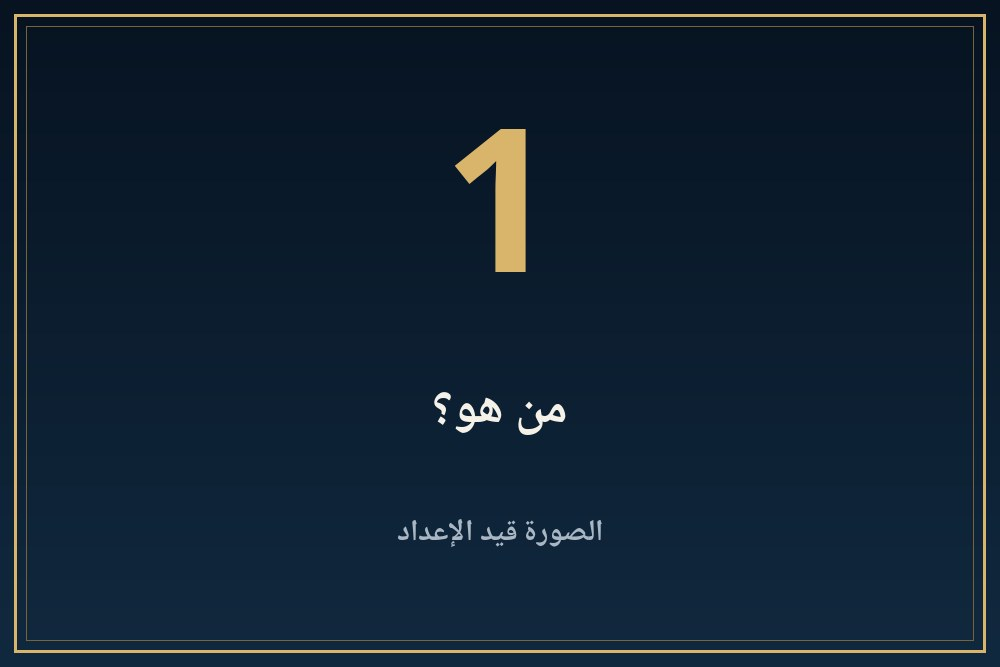
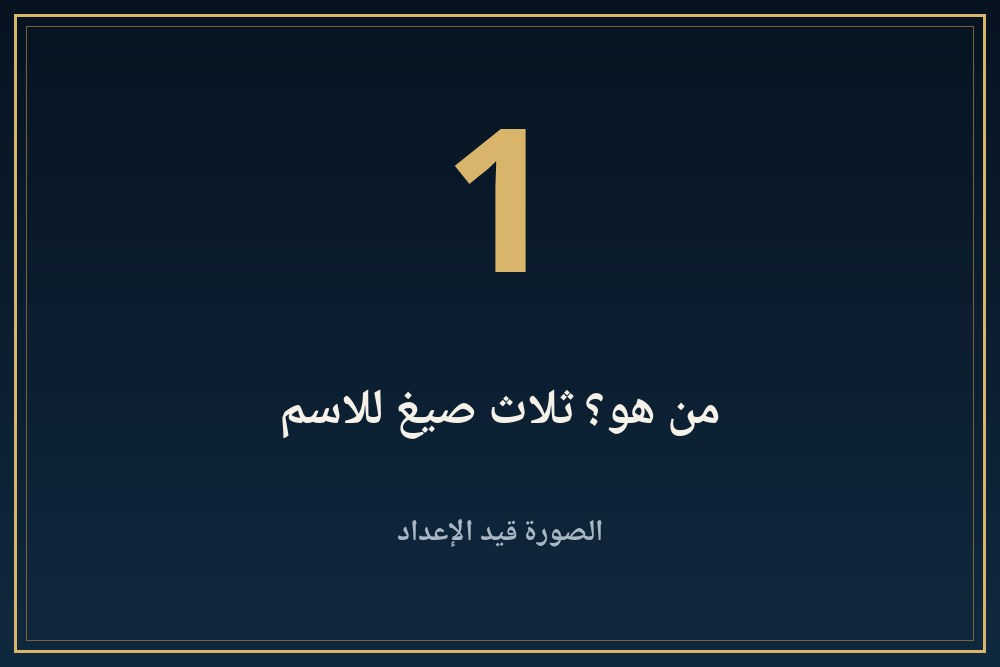
King 034: rebuilt from updated content (placeholders, audio pending)

Changed region(s): [[0.279, 0.5697, 0.744, 0.6597]]

diff --git a/kings/034-mrn-ra-alawl/index.html b/kings/034-mrn-ra-alawl/index.html
@@ -324,7 +324,7 @@ html[dir=ltr] #panav.open,#pash[dir=ltr] #panav.open{border-right:0!important;bo
 <div class="row"><span class="bdg v">موثّق</span><span>مذكور في مصدر مرقّم يمكن فتحه من قسم المراجع.</span></div>
 <div class="row"><span class="bdg d">محل خلاف</span><span>الصفحة نفسها تذكر أن الباحثين أو المصادر مختلفون فيه.</span></div>
 <div class="row"><span class="bdg u">لم يُتحقق منه</span><span>الصفحة تذكر أنه من مصدر واحد ولم يُتحقق منه في مصدر ثانٍ.</span></div></div>
-<div class="band" aria-hidden="true"></div><details class="acc k1" id="s1"><summary><img class="bnr" src="banners/b01.jpg?v=1" alt="" width="1000" height="667"><span class="n">1</span><span class="t">من هو؟</span><span class="ch"></span></summary><div class="body"><button class="lbtn" type="button" disabled aria-disabled="true" style="opacity:.55;cursor:default"><svg viewBox="0 0 24 24" fill="currentColor" aria-hidden="true"><path d="M7 4.5v15a1 1 0 001.5.86l12-7.5a1 1 0 000-1.72l-12-7.5A1 1 0 007 4.5z"/></svg><span>التعليق الصوتي قريبًا</span></button><p><span class="bdg v">موثّق</span> يقول سليم حسن (ج1 ص283-286) إن مرن رع عيّن وني «أميرا ومديرا للجنوب» من أسوان إلى إطفيح، «وعلى أن مثل هذه الوظيفة لم تُمنح لأحد من قبل».<sup><a href="#r1">[1]</a></sup></p></div></details><details class="acc k2" id="s2"><summary><img class="bnr" src="banners/b02.jpg?v=1" alt="" loading="lazy" width="1000" height="667"><span class="n">2</span><span class="t">بعثة حتنوب</span><span class="ch"></span></summary><div class="body"><button class="lbtn" type="button" disabled aria-disabled="true" style="opacity:.55;cursor:default"><svg viewBox="0 0 24 24" fill="currentColor" aria-hidden="true"><path d="M7 4.5v15a1 1 0 001.5.86l12-7.5a1 1 0 000-1.72l-12-7.5A1 1 0 007 4.5z"/></svg><span>التعليق الصوتي قريبًا</span></button><p><span class="bdg v">موثّق</span> يذكر سليم حسن (ص284) بعثة حتنوب لمائدة المرمر.<sup><a href="#r1">[1]</a></sup></p></div></details><details class="acc k3" id="s3"><summary><img class="bnr" src="banners/b03.jpg?v=1" alt="" loading="lazy" width="1000" height="667"><span class="n">3</span><span class="t">زيارة الشلال الأول</span><span class="ch"></span></summary><div class="body"><button class="lbtn" type="button" disabled aria-disabled="true" style="opacity:.55;cursor:default"><svg viewBox="0 0 24 24" fill="currentColor" aria-hidden="true"><path d="M7 4.5v15a1 1 0 001.5.86l12-7.5a1 1 0 000-1.72l-12-7.5A1 1 0 007 4.5z"/></svg><span>التعليق الصوتي قريبًا</span></button><p><span class="bdg v">موثّق</span> يذكر سليم حسن (ص285) زيارة الملك للشلال الأول في سنة 5 ونقشين مع خنوم وأمراء النوبة.<sup><a href="#r1">[1]</a></sup></p></div></details><details class="acc k4" id="s4"><summary><img class="bnr" src="banners/b04.jpg?v=1" alt="" loading="lazy" width="1000" height="667"><span class="n">4</span><span class="t">القنوات الخمس</span><span class="ch"></span></summary><div class="body"><button class="lbtn" type="button" disabled aria-disabled="true" style="opacity:.55;cursor:default"><svg viewBox="0 0 24 24" fill="currentColor" aria-hidden="true"><path d="M7 4.5v15a1 1 0 001.5.86l12-7.5a1 1 0 000-1.72l-12-7.5A1 1 0 007 4.5z"/></svg><span>التعليق الصوتي قريبًا</span></button><p><span class="bdg v">موثّق</span> يقول سليم حسن (ص284-285) إن حفر القنوات الخمس عند الشلال «من أكبر مفاخر عهده».<sup><a href="#r1">[1]</a></sup></p></div></details><details class="acc k1" id="s5"><summary><img class="bnr" src="banners/b05.jpg?v=1" alt="" loading="lazy" width="1000" height="667"><span class="n">5</span><span class="t">رحلات حرخوف</span><span class="ch"></span></summary><div class="body"><button class="lbtn" type="button" disabled aria-disabled="true" style="opacity:.55;cursor:default"><svg viewBox="0 0 24 24" fill="currentColor" aria-hidden="true"><path d="M7 4.5v15a1 1 0 001.5.86l12-7.5a1 1 0 000-1.72l-12-7.5A1 1 0 007 4.5z"/></svg><span>التعليق الصوتي قريبًا</span></button><p><span class="bdg v">موثّق</span> يذكر سليم حسن (ص286) ثلاث رحلات لحرخوف إلى إيام، منها قافلة من 300 حمار بالبخور والأبنوس والعاج.<sup><a href="#r1">[1]</a></sup></p></div></details><details class="acc k2" id="s6"><summary><img class="bnr" src="banners/b06.jpg?v=1" alt="" loading="lazy" width="1000" height="667"><span class="n">6</span><span class="t">ما لا نعرفه</span><span class="ch"></span></summary><div class="body"><button class="lbtn" type="button" disabled aria-disabled="true" style="opacity:.55;cursor:default"><svg viewBox="0 0 24 24" fill="currentColor" aria-hidden="true"><path d="M7 4.5v15a1 1 0 001.5.86l12-7.5a1 1 0 000-1.72l-12-7.5A1 1 0 007 4.5z"/></svg><span>التعليق الصوتي قريبًا</span></button><p><span class="bdg u">لم يُتحقق منه</span> لم نقرأ في مصادرنا تفاصيل أخرى بنص مضمون، وسنضيف ما نقرؤه من مصادر موثوقة.</p></div></details><details class="acc k4" id="refs"><summary><img class="bnr" src="banners/b07.jpg?v=1" alt="" loading="lazy" width="1000" height="667"><span class="n">7</span><span class="t">المراجع</span><span class="ch"></span></summary><div class="body"><button class="lbtn" type="button" disabled aria-disabled="true" style="opacity:.55;cursor:default"><svg viewBox="0 0 24 24" fill="currentColor" aria-hidden="true"><path d="M7 4.5v15a1 1 0 001.5.86l12-7.5a1 1 0 000-1.72l-12-7.5A1 1 0 007 4.5z"/></svg><span>التعليق الصوتي قريبًا</span></button><p><b>مصادر فتحتُ صفحاتها وقرأتها:</b></p><ol><li id="r1" dir="auto">سليم حسن، موسوعة مصر القديمة، ج1، الفصل 15: <a dir="ltr" style="display:inline-block;overflow-wrap:anywhere" href="https://archive.org/details/20201104_20201104_1559" rel="noopener" target="_blank">archive.org/details/20201104_20201104_1559</a></li></ol><div class="flag"><b>تنبيه:</b> عدد المصادر المصرية المفتوحة لهذه الصفحة واحد فقط. لا نضيف تفاصيل لم تثبت في مصدر فتحناه وقرأنا نصه، وحيث يختلف المصدران ننسب كل رأي لصاحبه.</div></div></details></article><aside class="abt" aria-label="عن هذه الصفحة"><h3>عن هذه الصفحة</h3><ul><li><b>المحتوى</b><span>جزء من موسوعة بر عنخ التعليمية. التواريخ والتفسيرات وفق المراجع المتاحة، وقد تختلف التفاصيل بين الدراسات.</span></li><li><b>الصور</b><span>صور هذه الصفحة أماكن حجز مؤقتة إلى أن تُضاف الصور الفنية.</span></li><li><b>الصوت</b><span>التعليق الصوتي قيد الإعداد.</span></li></ul></aside><a class="back" href="/kings/">← تصفح المزيد</a><a class="back" href="/">العودة إلى الرئيسية</a><dialog id="lb"><img alt=""><p></p><button type="button">إغلاق</button></dialog>
+<div class="band" aria-hidden="true"></div><details class="acc k1" id="s1"><summary><img class="bnr" src="banners/b01.jpg?v=1" alt="" width="1000" height="667"><span class="n">1</span><span class="t">من هو؟ ثلاث صيغ للاسم</span><span class="ch"></span></summary><div class="body"><button class="lbtn" type="button" disabled aria-disabled="true" style="opacity:.55;cursor:default"><svg viewBox="0 0 24 24" fill="currentColor" aria-hidden="true"><path d="M7 4.5v15a1 1 0 001.5.86l12-7.5a1 1 0 000-1.72l-12-7.5A1 1 0 007 4.5z"/></svg><span>التعليق الصوتي قريبًا</span></button><p><span class="bdg d">محل خلاف</span> يسميه صالح (ص214) «مرن رع»، ويسميه نور الدين (ص715) «نمتي م ساف الأول» وفي قائمته «مسرحن رع» بنص مشوه، ويكتب كتاب الميت (ص35-36) «Antiemsaf / Merenre» واسمه الحوري «عنخ خعو» أي «الظهور الحي». فنذكر الصيغ الثلاث دون ترجيح.<sup><a href="#r2">[2]</a><a href="#r3">[3]</a><a href="#r4">[4]</a></sup></p></div></details><details class="acc k2" id="s2"><summary><img class="bnr" src="banners/b02.jpg?v=1" alt="" loading="lazy" width="1000" height="667"><span class="n">2</span><span class="t">مدة الحكم</span><span class="ch"></span></summary><div class="body"><button class="lbtn" type="button" disabled aria-disabled="true" style="opacity:.55;cursor:default"><svg viewBox="0 0 24 24" fill="currentColor" aria-hidden="true"><path d="M7 4.5v15a1 1 0 001.5.86l12-7.5a1 1 0 000-1.72l-12-7.5A1 1 0 007 4.5z"/></svg><span>التعليق الصوتي قريبًا</span></button><p><span class="bdg d">محل خلاف</span> يقول كتاب الميت (ص35-36) إن مانيتون ينسب إليه سبع سنين وبردية تورين أكثر من أربعين، والمؤكد إحصاء خامس يدل على سنة عشر أو إحدى عشرة. ويقول نور الدين (ص715) «سبعة أعوام» بنص مشوه. فالخلاف قائم.<sup><a href="#r3">[3]</a><a href="#r4">[4]</a></sup></p></div></details><details class="acc k3" id="s3"><summary><img class="bnr" src="banners/b03.jpg?v=1" alt="" loading="lazy" width="1000" height="667"><span class="n">3</span><span class="t">شراكة في الحكم؟</span><span class="ch"></span></summary><div class="body"><button class="lbtn" type="button" disabled aria-disabled="true" style="opacity:.55;cursor:default"><svg viewBox="0 0 24 24" fill="currentColor" aria-hidden="true"><path d="M7 4.5v15a1 1 0 001.5.86l12-7.5a1 1 0 000-1.72l-12-7.5A1 1 0 007 4.5z"/></svg><span>التعليق الصوتي قريبًا</span></button><p><span class="bdg u">لم يُتحقق منه</span> يقول كتاب الميت (ص36) إن قطعة ذهبية تجمع خرطوشه وخرطوش بيبي الأول «قد تدل» على فترة حكم مشترك، وإن الآثار باسمه كثيرة نسبيا.<sup><a href="#r4">[4]</a></sup></p></div></details><details class="acc k4" id="s4"><summary><img class="bnr" src="banners/b04.jpg?v=1" alt="" loading="lazy" width="1000" height="667"><span class="n">4</span><span class="t">معبد ناقص ومومياء</span><span class="ch"></span></summary><div class="body"><button class="lbtn" type="button" disabled aria-disabled="true" style="opacity:.55;cursor:default"><svg viewBox="0 0 24 24" fill="currentColor" aria-hidden="true"><path d="M7 4.5v15a1 1 0 001.5.86l12-7.5a1 1 0 000-1.72l-12-7.5A1 1 0 007 4.5z"/></svg><span>التعليق الصوتي قريبًا</span></button><p><span class="bdg d">محل خلاف</span> يقول كتاب الميت (ص36) إن الحفر الجزئي لمعبده يكشف أنه بقي ناقصا، وإن ماسبيرو وجد في هرمه متون الأهرام عام 1880 ووجد مومياء الملك، وقد تدهورت حتى صار لا يُعرف عمره. ويقول نور الدين (ص514) إن ماسبيرو اكتشف المتون بين 1880 و1881 في أهرام أوناس وبيبي الأول ومرن رع وبيبي الثاني. وكتاب الميت يجعل أول اكتشافها في هرم مرن رع.<sup><a href="#r3">[3]</a><a href="#r4">[4]</a></sup></p></div></details><details class="acc k1" id="s5"><summary><img class="bnr" src="banners/b05.jpg?v=1" alt="" loading="lazy" width="1000" height="667"><span class="n">5</span><span class="t">وني أمير الجنوب</span><span class="ch"></span></summary><div class="body"><button class="lbtn" type="button" disabled aria-disabled="true" style="opacity:.55;cursor:default"><svg viewBox="0 0 24 24" fill="currentColor" aria-hidden="true"><path d="M7 4.5v15a1 1 0 001.5.86l12-7.5a1 1 0 000-1.72l-12-7.5A1 1 0 007 4.5z"/></svg><span>التعليق الصوتي قريبًا</span></button><p><span class="bdg v">موثّق</span> يقول سليم حسن (ص283) إن مرن رع عيّن وني «أميرا ومديرا للجنوب» من أسوان إلى إطفيح، ولم تُمنح هذه الوظيفة لأحد من قبل. ويقول (ص284-285) إن حفر القنوات الخمس عند الشلال من أكبر مفاخر عهده، وإنه زار الشلال الأول في سنة 5.<sup><a href="#r1">[1]</a></sup></p></div></details><details class="acc k2" id="s6"><summary><img class="bnr" src="banners/b06.jpg?v=1" alt="" loading="lazy" width="1000" height="667"><span class="n">6</span><span class="t">رحلات حرخوف</span><span class="ch"></span></summary><div class="body"><button class="lbtn" type="button" disabled aria-disabled="true" style="opacity:.55;cursor:default"><svg viewBox="0 0 24 24" fill="currentColor" aria-hidden="true"><path d="M7 4.5v15a1 1 0 001.5.86l12-7.5a1 1 0 000-1.72l-12-7.5A1 1 0 007 4.5z"/></svg><span>التعليق الصوتي قريبًا</span></button><p><span class="bdg d">محل خلاف</span> يقول صالح (ص220) إن حرخوف قام بأربع رحلات إلى الجنوب في عهدي مرن رع وبيبي الثاني بطريقين، وبدأها مع أبيه إري، وبلغ منطقة إيام قرب الشلال الثاني. ويذكر سليم حسن (ص286) ثلاث رحلات منها قافلة من 300 حمار.<sup><a href="#r1">[1]</a><a href="#r2">[2]</a></sup></p></div></details><details class="acc k3" id="s7"><summary><img class="bnr" src="banners/b07.jpg?v=1" alt="" loading="lazy" width="1000" height="667"><span class="n">7</span><span class="t">ما لا نعرفه</span><span class="ch"></span></summary><div class="body"><button class="lbtn" type="button" disabled aria-disabled="true" style="opacity:.55;cursor:default"><svg viewBox="0 0 24 24" fill="currentColor" aria-hidden="true"><path d="M7 4.5v15a1 1 0 001.5.86l12-7.5a1 1 0 000-1.72l-12-7.5A1 1 0 007 4.5z"/></svg><span>التعليق الصوتي قريبًا</span></button><p><span class="bdg u">لم يُتحقق منه</span> لا نعرف مدة حكمه ولا هل حكم مع أبيه، ولا موضع المومياء الآن. ونعرض ما قرأناه دون ترجيح.</p></div></details><details class="acc k4" id="refs"><summary><img class="bnr" src="banners/b08.jpg?v=1" alt="" loading="lazy" width="1000" height="667"><span class="n">8</span><span class="t">المراجع</span><span class="ch"></span></summary><div class="body"><button class="lbtn" type="button" disabled aria-disabled="true" style="opacity:.55;cursor:default"><svg viewBox="0 0 24 24" fill="currentColor" aria-hidden="true"><path d="M7 4.5v15a1 1 0 001.5.86l12-7.5a1 1 0 000-1.72l-12-7.5A1 1 0 007 4.5z"/></svg><span>التعليق الصوتي قريبًا</span></button><p><b>مصادر فتحتُ صفحاتها وقرأتها:</b></p><ol><li id="r1" dir="auto">سليم حسن، موسوعة مصر القديمة، ج1، الفصل 15: <a dir="ltr" style="display:inline-block;overflow-wrap:anywhere" href="https://archive.org/details/20201104_20201104_1559" rel="noopener" target="_blank">archive.org/details/20201104_20201104_1559</a></li><li id="r2" dir="auto">عبد العزيز صالح، الشرق الأدنى القديم ج1 (مصر والعراق)، أرقام صفحات PDF: <a dir="ltr" style="display:inline-block;overflow-wrap:anywhere" href="https://archive.org/details/20210510_20210510_0037" rel="noopener" target="_blank">archive.org/details/20210510_20210510_0037</a></li><li id="r3" dir="auto">عبد الحليم نور الدين، آثار وحضارة مصر القديمة ج1، أرقام صفحات PDF: <a dir="ltr" style="display:inline-block;overflow-wrap:anywhere" href="https://archive.org/details/AAlexandrina-117303" rel="noopener" target="_blank">archive.org/details/AAlexandrina-117303</a></li><li id="r4" dir="auto">The Metropolitan Museum of Art, Egyptian Art in the Age of the Pyramids, 1999 (فصول كوزلوف وأرنولد وزيجلر وجريمال): <a dir="ltr" style="display:inline-block;overflow-wrap:anywhere" href="https://www.metmuseum.org/met-publications/egyptian-art-in-the-age-of-the-pyramids" rel="noopener" target="_blank">www.metmuseum.org/met-publications/egyptian-art-in-the-age-of-the-pyramids</a></li></ol></div></details></article><aside class="abt" aria-label="عن هذه الصفحة"><h3>عن هذه الصفحة</h3><ul><li><b>المحتوى</b><span>جزء من موسوعة بر عنخ التعليمية. التواريخ والتفسيرات وفق المراجع المتاحة، وقد تختلف التفاصيل بين الدراسات.</span></li><li><b>الصور</b><span>صور هذه الصفحة أماكن حجز مؤقتة إلى أن تُضاف الصور الفنية.</span></li><li><b>الصوت</b><span>التعليق الصوتي قيد الإعداد.</span></li></ul></aside><a class="back" href="/kings/">← تصفح المزيد</a><a class="back" href="/">العودة إلى الرئيسية</a><dialog id="lb"><img alt=""><p></p><button type="button">إغلاق</button></dialog>
 <script>(function(){var A=function(){return document.querySelectorAll("details.acc")};
 document.getElementById("all").onclick=function(){A().forEach(function(d){d.open=true})};
 document.getElementById("none").onclick=function(){A().forEach(function(d){d.open=false})};
@@ -332,7 +332,7 @@ function go(h){var e=h&&document.getElementById(h.slice(1));if(!e)return;var d=e
 document.addEventListener("click",function(e){var a=e.target.closest&&e.target.closest('a[href^="#"]');if(a){go(a.getAttribute("href"))}});
 if(location.hash)go(location.hash);
 var d=document.getElementById("lb");if(!d||!d.showModal)return;var im=d.querySelector("img"),p=d.querySelector("p");document.addEventListener("click",function(e){var t=e.target;if(t.tagName=="IMG"&&t.closest(".fig")){im.src=t.src;im.alt=t.alt;p.textContent=t.closest("figure").querySelector("figcaption").innerText;d.showModal()}else if(t==d||t.tagName=="BUTTON"&&d.contains(t)){d.close()}})})();</script><div class="pbar" id="pbar"></div><div class="pl" id="pl" role="region" aria-label="مشغّل الاستماع"><div class="in"><button class="pp" id="pp" type="button" aria-label="تشغيل"><svg viewBox="0 0 24 24" fill="currentColor" aria-hidden="true"><path d="M7 4.5v15a1 1 0 001.5.86l12-7.5a1 1 0 000-1.72l-12-7.5A1 1 0 007 4.5z"/></svg></button><div class="mid"><div class="ttl"><span id="tt">استماع</span> <i>صوت اصطناعي</i></div><input id="sk" type="range" min="0" max="1000" value="0" aria-label="موضع التشغيل"><div class="tm"><span id="cur">0:00</span><span id="dur">0:00</span></div></div><div class="ex"><button id="bk" type="button" aria-label="رجوع 10 ثوانٍ">−10</button><button id="fw" type="button" aria-label="تقدم 10 ثوانٍ">+10</button><button id="sp" class="sp" type="button" aria-label="سرعة التشغيل">1×</button><button id="cl" type="button" aria-label="إغلاق المشغّل">✕</button></div><p class="err" id="er" role="alert" hidden>تعذر تحميل الملف الصوتي. حاول لاحقًا.</p></div><div aria-live="polite" id="st" style="position:absolute;left:-9999px"></div><audio id="au" preload="none"></audio></div></main><script>(function(){
-var S={"s1": ["من هو؟", 1], "s2": ["بعثة حتنوب", 1], "s3": ["زيارة الشلال الأول", 1], "s4": ["القنوات الخمس", 1], "s5": ["رحلات حرخوف", 1], "s6": ["ما لا نعرفه", 1], "refs": ["المراجع", 1]},$=function(i){return document.getElementById(i)},au=$("au"),pl=$("pl"),pp=$("pp"),sk=$("sk"),P="<svg viewBox=\"0 0 24 24\" fill=\"currentColor\" aria-hidden=\"true\"><path d=\"M7 4.5v15a1 1 0 001.5.86l12-7.5a1 1 0 000-1.72l-12-7.5A1 1 0 007 4.5z\"/></svg>",Q="<svg viewBox=\"0 0 24 24\" fill=\"currentColor\" aria-hidden=\"true\"><rect x=\"5.5\" y=\"4\" width=\"4.5\" height=\"16\" rx=\"1.2\"/><rect x=\"14\" y=\"4\" width=\"4.5\" height=\"16\" rx=\"1.2\"/></svg>",cur=null,part=1,seeking=false;
+var S={"s1": ["من هو؟ ثلاث صيغ للاسم", 1], "s2": ["مدة الحكم", 1], "s3": ["شراكة في الحكم؟", 1], "s4": ["معبد ناقص ومومياء", 1], "s5": ["وني أمير الجنوب", 1], "s6": ["رحلات حرخوف", 1], "s7": ["ما لا نعرفه", 1], "refs": ["المراجع", 1]},$=function(i){return document.getElementById(i)},au=$("au"),pl=$("pl"),pp=$("pp"),sk=$("sk"),P="<svg viewBox=\"0 0 24 24\" fill=\"currentColor\" aria-hidden=\"true\"><path d=\"M7 4.5v15a1 1 0 001.5.86l12-7.5a1 1 0 000-1.72l-12-7.5A1 1 0 007 4.5z\"/></svg>",Q="<svg viewBox=\"0 0 24 24\" fill=\"currentColor\" aria-hidden=\"true\"><rect x=\"5.5\" y=\"4\" width=\"4.5\" height=\"16\" rx=\"1.2\"/><rect x=\"14\" y=\"4\" width=\"4.5\" height=\"16\" rx=\"1.2\"/></svg>",cur=null,part=1,seeking=false;
 function fmt(t){if(!isFinite(t))return"0:00";var m=Math.floor(t/60),s=Math.floor(t%60);return m+":"+(s<10?"0":"")+s}
 function btns(){document.querySelectorAll(".lbtn").forEach(function(b){var on=b.dataset.s===cur&&!au.paused;b.classList.toggle("on",on);b.querySelector("span").textContent=on?"إيقاف مؤقت":(b.dataset.s===cur&&au.currentTime>1?"أكمل الاستماع":"استمع لهذا القسم");b.querySelector("svg").outerHTML=on?Q:P})}
 function ui(){var pa=au.paused;pp.innerHTML=pa?P:Q;pp.setAttribute("aria-label",pa?"تشغيل":"إيقاف مؤقت");btns()}
